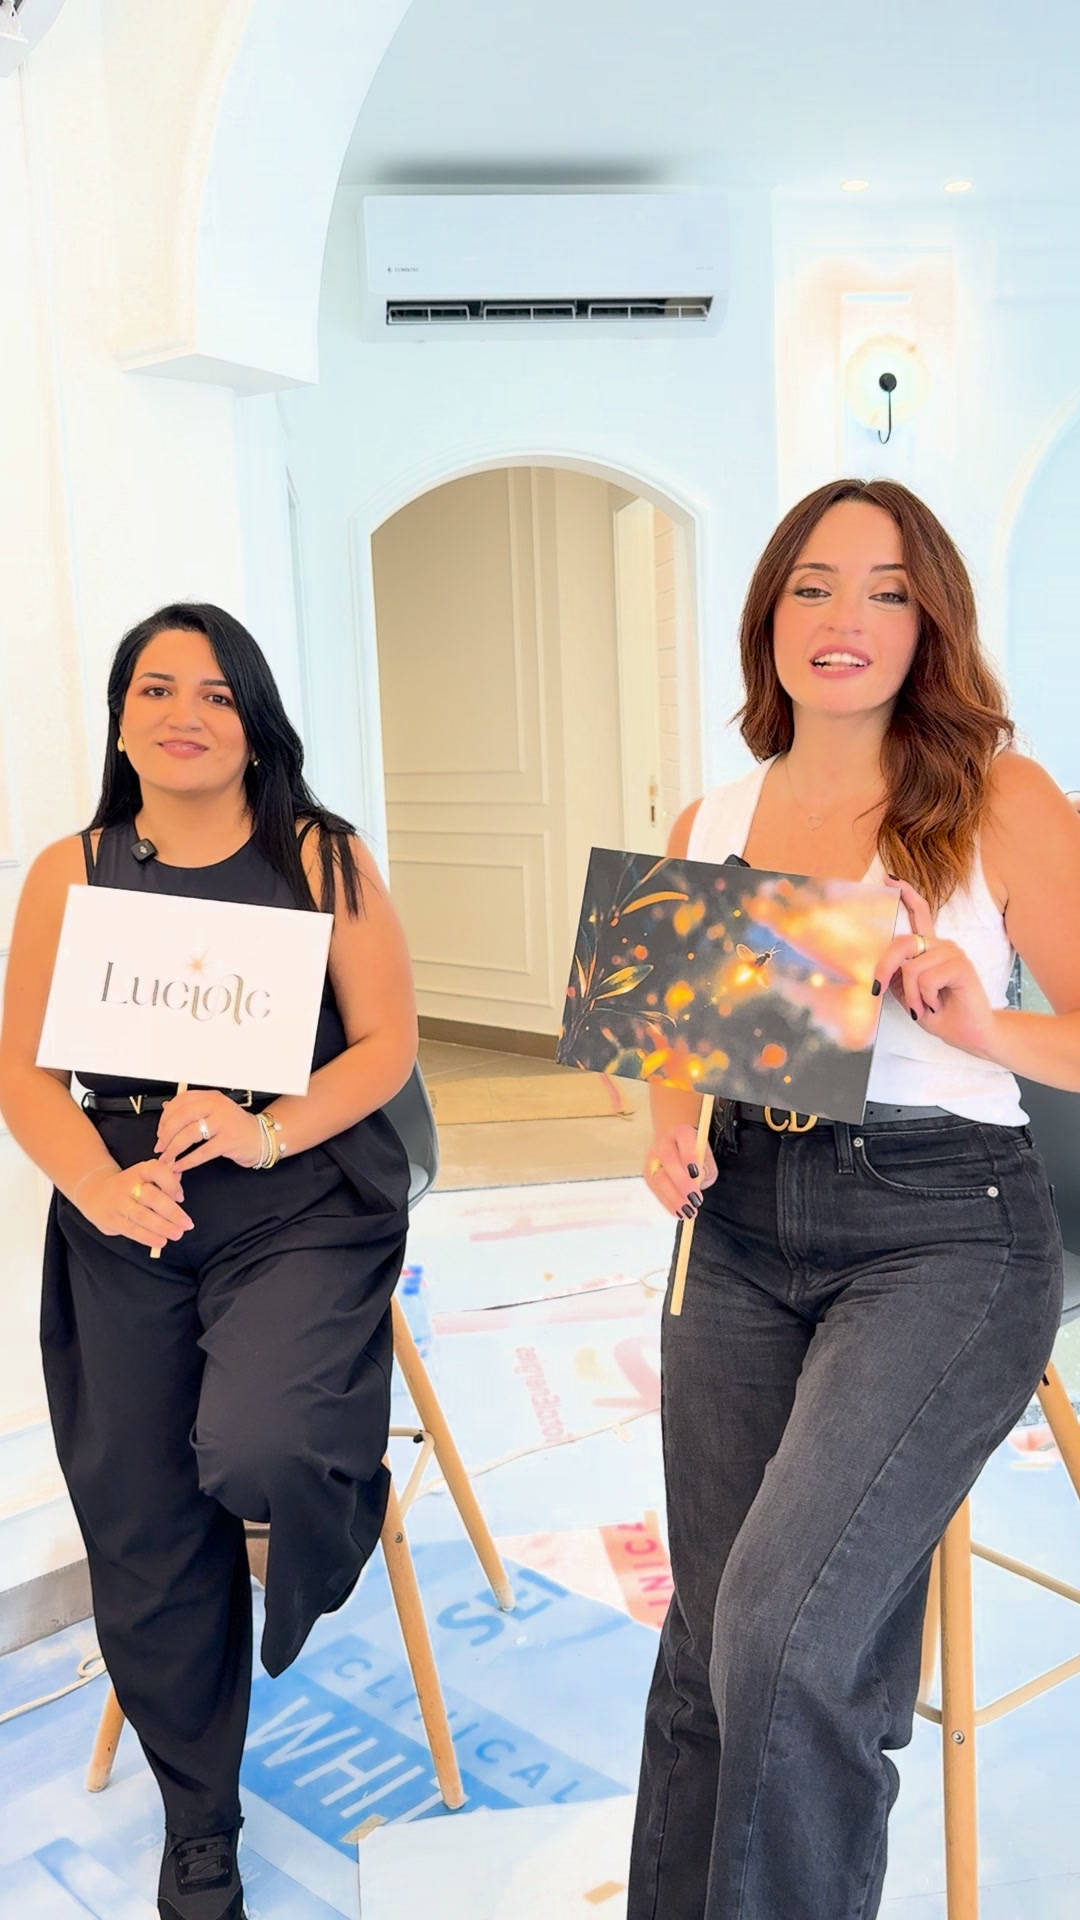
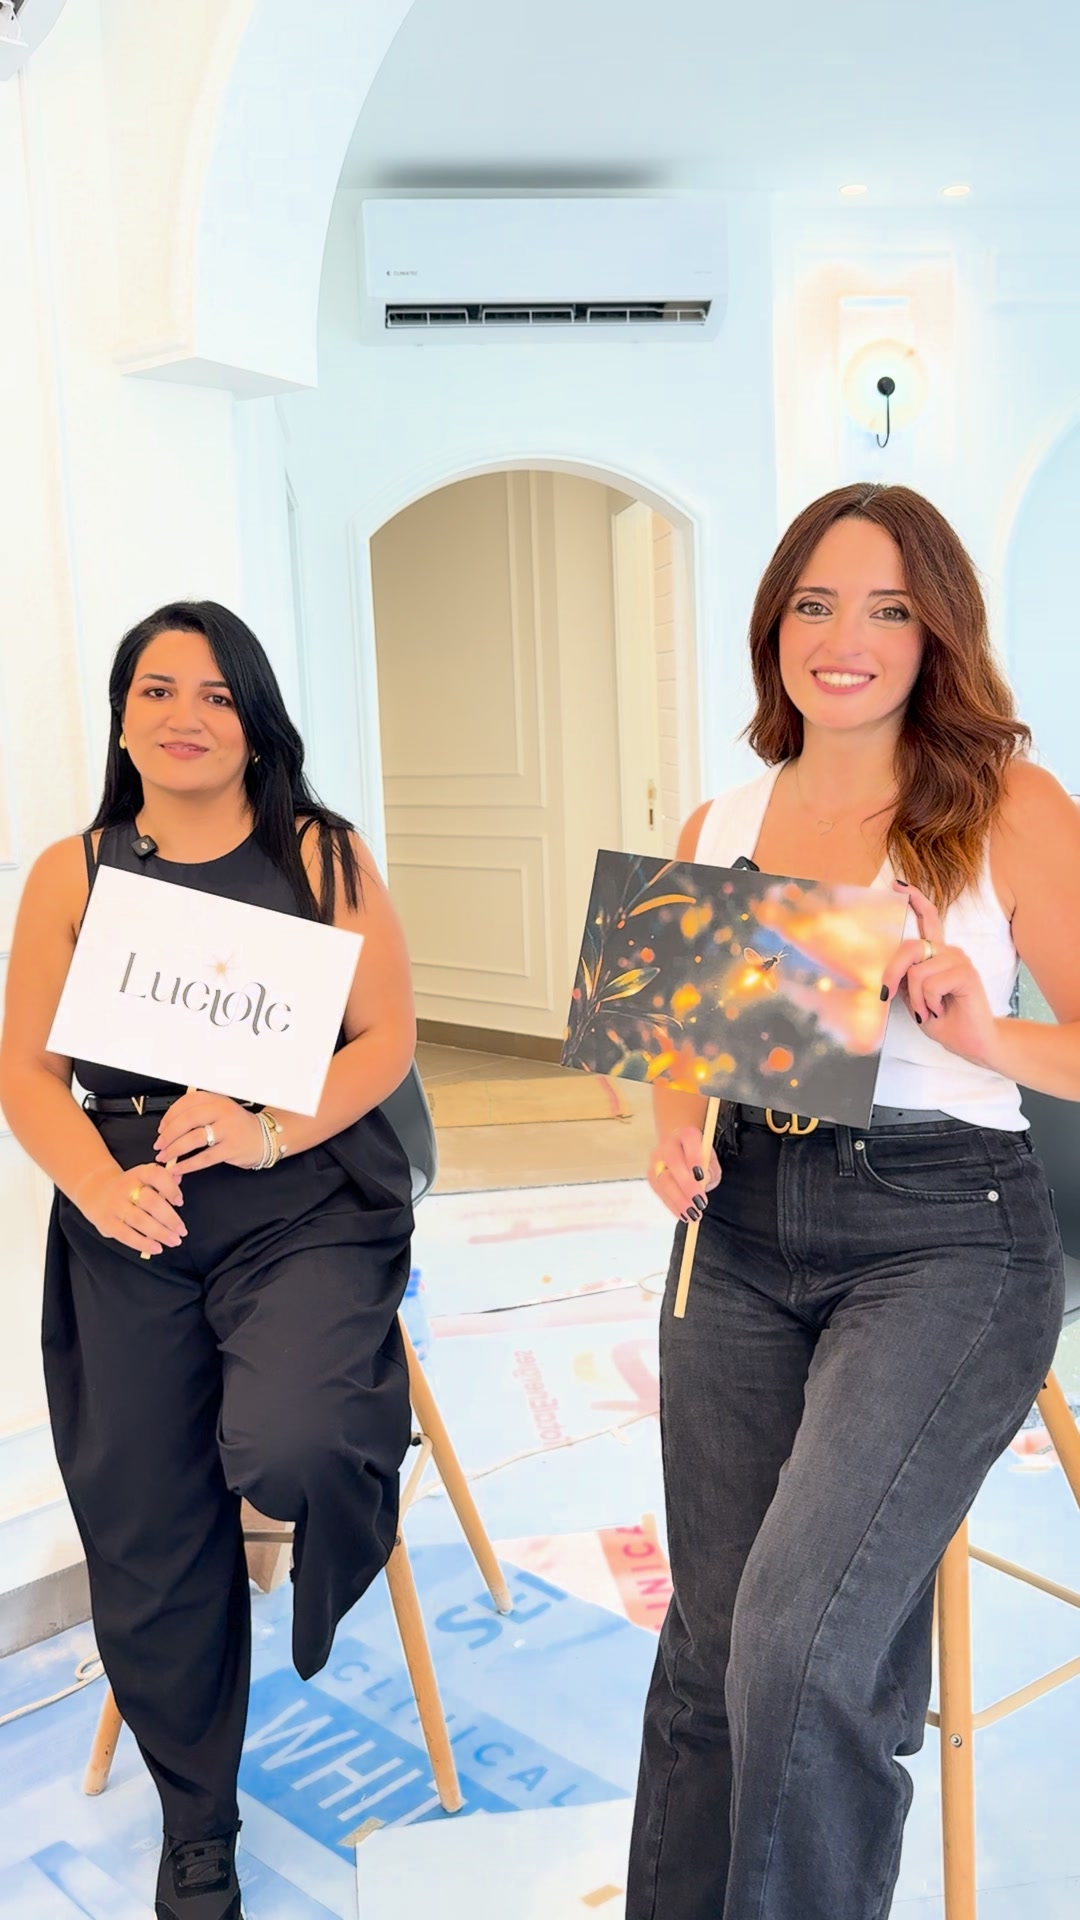
Use a smiling frame for the reel cover
Swaps the cover photo from 5.7s (host mid-word) to 7.25s in IMG_3766,
just after the line ends, where both hosts are smiling at camera with
the sign and artwork in frame. Same HDR tone mapping as before.

Claude-Session: https://claude.ai/code/session_01Ar7gFdemnr6dkvYanh3SU1

diff --git a/src/reel/Cover.tsx b/src/reel/Cover.tsx
@@ -10,7 +10,7 @@ import {CREAM, display, GOLD, SAND, sans} from './timeline';
  *
  * Swap the photo: replace public/reel/cover/frame.jpg (any 1080x1920 frame). iPhone
  * footage is HDR (HLG), so tone-map it or the colours come out flat:
- *   ffmpeg -ss 5.7 -i IMG_3766.mov -frames:v 1 -q:v 2 -vf "zscale=t=linear:npl=203,format=gbrpf32le,zscale=p=bt709,\
+ *   ffmpeg -ss 7.25 -i IMG_3766.mov -frames:v 1 -q:v 2 -vf "zscale=t=linear:npl=203,format=gbrpf32le,zscale=p=bt709,\
  *     tonemap=tonemap=mobius:param=0.5:desat=0,zscale=t=bt709:m=bt709:r=tv,scale=1080:1920:force_original_aspect_ratio=increase,\
  *     crop=1080:1920,format=yuvj420p" public/reel/cover/frame.jpg
  */
